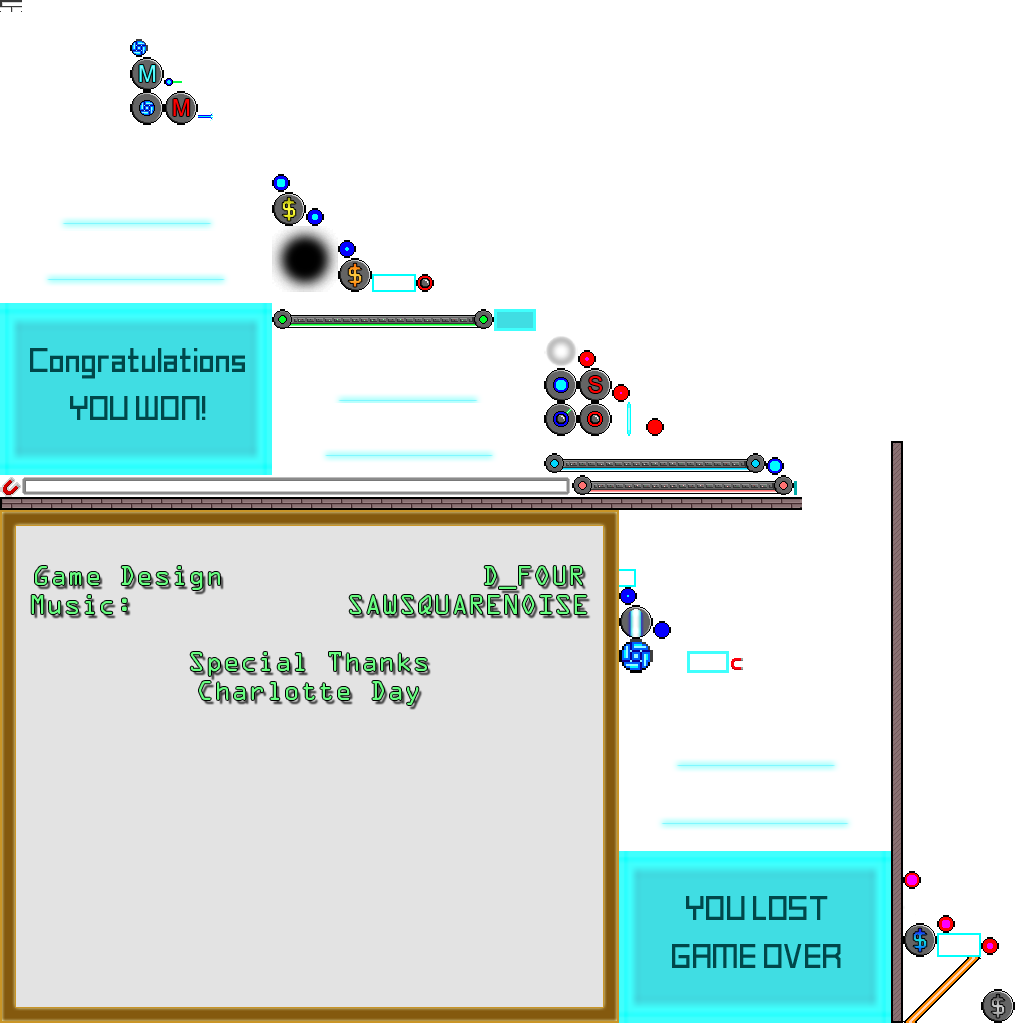
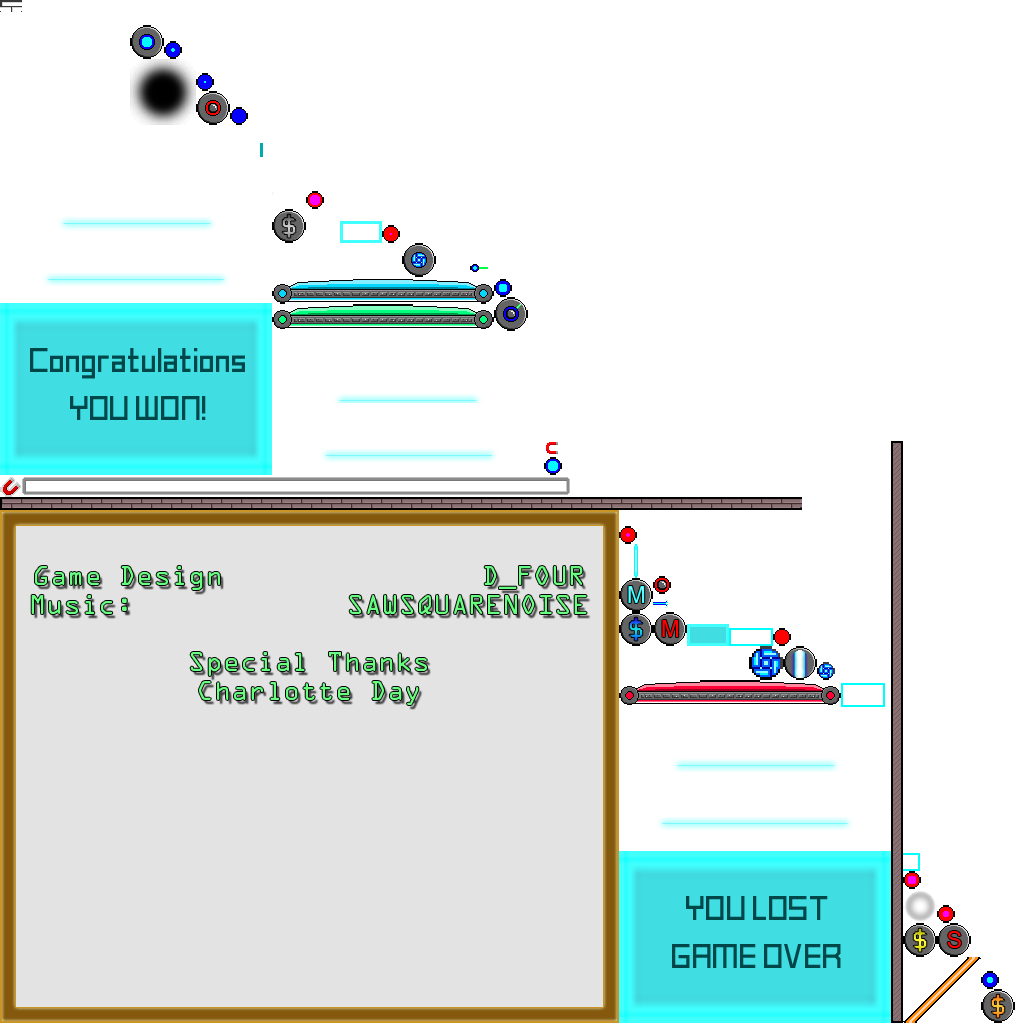
Cursor changes and code Cleanup

diff --git a/blockbreaker/core/src/com/dfour/blockbreaker/view/ApplicationScreen.java b/blockbreaker/core/src/com/dfour/blockbreaker/view/ApplicationScreen.java
@@ -6,9 +6,12 @@ import com.badlogic.gdx.Gdx;
 import com.badlogic.gdx.InputMultiplexer;
 import com.badlogic.gdx.Screen;
 import com.badlogic.gdx.graphics.Color;
+import com.badlogic.gdx.graphics.Cursor;
+import com.badlogic.gdx.graphics.Cursor.SystemCursor;
 import com.badlogic.gdx.graphics.GL20;
 import com.badlogic.gdx.graphics.OrthographicCamera;
 import com.badlogic.gdx.graphics.Pixmap;
+import com.badlogic.gdx.graphics.Pixmap.Format;
 import com.badlogic.gdx.graphics.Texture;
 import com.badlogic.gdx.graphics.g2d.BitmapFont;
 import com.badlogic.gdx.graphics.g2d.ParticleEffect;
@@ -40,7 +43,6 @@ import com.dfour.blockbreaker.BlockBreaker;
 import com.dfour.blockbreaker.IconBar;
 import com.dfour.blockbreaker.controller.AppController;
 import com.dfour.blockbreaker.entity.Ball;
-import com.dfour.blockbreaker.entity.BlackHole;
 import com.dfour.blockbreaker.entity.Bomb;
 import com.dfour.blockbreaker.entity.Brick;
 import com.dfour.blockbreaker.entity.ExplosionParticle;
@@ -105,9 +107,6 @@ public class ApplicationScreen implements Screen {
 	private Array<PooledEffect> effects = new Array<PooledEffect>();
 	
 	private Texture expParty;
-	private Texture magnetPowerBar;
-	private TextureRegion magnetPowerBarOverlay;
-	private TextureRegion bombIcon;
 	private TextureRegion leftWall;
 	private TextureRegion bottomWall;
 	
@@ -168,13 +167,15 @@ public class ApplicationScreen implements Screen {
 	private Label cashCountLabel;
 	private IconBar guideBar;
 	private Label bombCountLabel;
-	private Label magnetRechargeRateLabel;
 	private Label magnetUnitsTotal;
 	private Label laserCountLabel;
 	private Label laserGuideCountLabel;
 	private Label livesCountLabel;
 	private Table pauseMenuTable;
 	private InputMultiplexer imp;
+	
+	private Cursor inGame;
+	private SystemCursor inMenu;
 	
 	
 	public ApplicationScreen(BlockBreaker p) {
@@ -209,6 +210,9 @@ public class ApplicationScreen implements Screen {
 		displayTable.setDebug(false);
 		displayTable.setFillParent(true);
 		skin = parent.assMan.manager.get("skin/bbskin.json",Skin.class);
+		
+		inGame = Gdx.graphics.newCursor(new Pixmap(1,1,Format.RGBA8888), 1, 1);
+		inMenu = Cursor.SystemCursor.Arrow;
 		
 		NinePatchDrawable npd = new NinePatchDrawable(atlasGui.createPatch("darkblockbutton"));
 		
@@ -328,6 +332,7 @@ public class ApplicationScreen implements Screen {
 		bbModel.init();
 		isPaused = false;
 		isReturning = false;
+		Gdx.graphics.setCursor(inGame);
 	}
 	
 	@Override
@@ -356,6 +361,9 @@ public class ApplicationScreen implements Screen {
 	    	controller.isPauseDown = false;
 	    	if(isPaused){
 	    		pauseMenuTable.setVisible(true);
+	    		Gdx.graphics.setSystemCursor(inMenu);
+	    	}else{
+	    		Gdx.graphics.setCursor(inGame);
 	    	}
 	    	
 	    }
@@ -382,6 +390,7 @@ public class ApplicationScreen implements Screen {
 			fadeOut -= delta;
 			currentAlpha = fadeOut;
 			if(fadeOut <= 0){
+				Gdx.graphics.setSystemCursor(inMenu);
 				parent.changeScreen(nextScreen);
 			}
 		}else{
@@ -737,8 +746,6 @@ public class ApplicationScreen implements Screen {
 		lazerEndBg 		= atlasLazor.findRegion("lazorEnd");
 		lazerEndOver 	= atlasLazor.findRegion("lazorEndOver");
 		lazerAllOver 	= atlasLazor.findRegion("lazorAllOver");
-		magnetPowerBarOverlay = atlas.findRegion("magpowerbar");
-		bombIcon = atlas.findRegion("bomb");
 		leftWall = atlas.findRegion("leftwall");
 		bottomWall = atlas.findRegion("bottomwall");
 		
@@ -746,11 +753,6 @@ public class ApplicationScreen implements Screen {
 		pmap.setColor(1,1,1,1);
 		pmap.fillCircle(3, 3, 2);
 		expParty = new Texture(pmap);	
-		
-		pmap = new Pixmap(10,10, Pixmap.Format.RGBA4444);
-		pmap.setColor(Color.WHITE);
-		pmap.fill();
-		magnetPowerBar = new Texture(pmap);
 		pmap.dispose();
 		
 		

diff --git a/blockbreaker/core/src/com/dfour/blockbreaker/view/LevelDesignerScreen.java b/blockbreaker/core/src/com/dfour/blockbreaker/view/LevelDesignerScreen.java
@@ -1,36 +1,27 @@
 package com.dfour.blockbreaker.view;
 
 import com.badlogic.gdx.Gdx;
-import com.badlogic.gdx.Screen;
 import com.badlogic.gdx.files.FileHandle;
 import com.badlogic.gdx.graphics.Color;
-import com.badlogic.gdx.graphics.GL20;
 import com.badlogic.gdx.graphics.Pixmap;
 import com.badlogic.gdx.graphics.Pixmap.Format;
 import com.badlogic.gdx.graphics.Texture;
 import com.badlogic.gdx.graphics.g2d.Batch;
-import com.badlogic.gdx.graphics.g2d.BitmapFont;
-import com.badlogic.gdx.graphics.g2d.SpriteBatch;
 import com.badlogic.gdx.graphics.g2d.TextureAtlas;
-import com.badlogic.gdx.graphics.g2d.TextureAtlas.AtlasRegion;
 import com.badlogic.gdx.graphics.g2d.TextureRegion;
 import com.badlogic.gdx.scenes.scene2d.Actor;
 import com.badlogic.gdx.scenes.scene2d.InputEvent;
-import com.badlogic.gdx.scenes.scene2d.Stage;
 import com.badlogic.gdx.scenes.scene2d.ui.ImageButton;
 import com.badlogic.gdx.scenes.scene2d.ui.Label;
 import com.badlogic.gdx.scenes.scene2d.ui.Skin;
 import com.badlogic.gdx.scenes.scene2d.ui.Table;
 import com.badlogic.gdx.scenes.scene2d.ui.TextButton;
 import com.badlogic.gdx.scenes.scene2d.ui.ImageButton.ImageButtonStyle;
-import com.badlogic.gdx.scenes.scene2d.ui.TextButton.TextButtonStyle;
 import com.badlogic.gdx.scenes.scene2d.ui.TextField;
 import com.badlogic.gdx.scenes.scene2d.ui.TextTooltip;
 import com.badlogic.gdx.scenes.scene2d.utils.ClickListener;
-import com.badlogic.gdx.scenes.scene2d.utils.NinePatchDrawable;
 import com.badlogic.gdx.scenes.scene2d.utils.TextureRegionDrawable;
 import com.badlogic.gdx.utils.Array;
-import com.badlogic.gdx.utils.viewport.ScreenViewport;
 import com.dfour.blockbreaker.BlockBreaker;
 
 public class LevelDesignerScreen extends Scene2DScreen {

diff --git a/blockbreaker/core/src/com/dfour/blockbreaker/entity/EntityFactory.java b/blockbreaker/core/src/com/dfour/blockbreaker/entity/EntityFactory.java
@@ -45,11 +45,32 @@ public class EntityFactory {
 	
 	
 	public Pad makePad(float x, float y){
-		Body padBody = bodyFactory.makeBoxPolyBody(x, y, // location
-				10, 0.5f, // size
-				BodyFactory.RUBBER, BodyType.KinematicBody);
-		bodyFactory.addCircleFixture(padBody, -5, 0, 1f, BodyFactory.RUBBER);
-		bodyFactory.addCircleFixture(padBody, 5, 0, 1f, BodyFactory.RUBBER);
+		
+		
+		// old pad
+		//Body padBody = bodyFactory.makeBoxPolyBody(x, y, // location
+		//		10, 0.5f, // size
+		//		BodyFactory.RUBBER, BodyType.KinematicBody);
+		
+		//new pad
+		
+		Vector2[] verts = new Vector2[8];
+		verts[0] = new Vector2(-5,-0.5f); 
+		verts[1] = new Vector2(-5,0.2f);
+		verts[2] = new Vector2(-4,0.4f);
+		verts[3] = new Vector2(-2,0.6f);
+		verts[4] = new Vector2(2,0.6f);
+		verts[5] = new Vector2(4,0.4f);
+		verts[6] = new Vector2(5,0.2f);
+		verts[7] = new Vector2(5,-0.5f);
+		
+		Body padBody = bodyFactory.makePolygonShapeBody(verts, x, y,  BodyFactory.RUBBER, BodyType.KinematicBody);
+		
+		
+		
+		
+		bodyFactory.addCircleFixture(padBody, -5, 0, 0.5f, BodyFactory.RUBBER);
+		bodyFactory.addCircleFixture(padBody, 5, 0, 0.5f, BodyFactory.RUBBER);
 		pad = new Pad(padBody, atlas.createSprite("paddel"),
 				atlas.createSprite("paddel-magnet-pull"),
 				atlas.createSprite("paddel-magnet-push"), new Animation(0.05f,

diff --git a/blockbreaker/core/src/com/dfour/blockbreaker/BlockBreaker.java b/blockbreaker/core/src/com/dfour/blockbreaker/BlockBreaker.java
@@ -24,16 +24,15 @@ public class BlockBreaker extends Game {
 	//TODO create bug reporter( in game or online )
 	//TODO try make bricks that hit black hole spin into oblivion (see add animations todo)
 	//TODO add animations to entities using boolean to state image vs animation for (normal, death, black hole death)
-	//TODO try move all objects into external xml definition files
-	//TODO hide cursor when in game and show when in menus with custom cursor
+	//DONTBOTHER try move all objects into external xml definition files (and make obstacles use interfaces(one for each action: magnetise, explode etc))
+	//TODO NEEDS TESTING hide cursor when in game and show when in menus with custom cursor
 	//TODO sticky pad/ tractor beam
 	//TODO negative power ups such as drunk/slow/angled
 	//TODO add larger pad mechanic
-	//TODO add pause menu  (with buttons n stuffs for the pressings)
 	//TODO make GUI class that overlays application screen using stage
 	//TODO add continue button (saving score and cash in preferences ?? possible cheat)
 	//TODO add release ball key to prefs
-	//TODO make pad top curved for more player control
+	//TODO look into changing box2d step size to alter time
 	
 	private MenuScreen menu;
 	private PreferencesScreen prefs;

diff --git a/blockbreaker/core/src/com/dfour/blockbreaker/view/MenuScreen.java b/blockbreaker/core/src/com/dfour/blockbreaker/view/MenuScreen.java
@@ -1,22 +1,9 @@
 package com.dfour.blockbreaker.view;
 
 import com.badlogic.gdx.Gdx;
-import com.badlogic.gdx.Screen;
-import com.badlogic.gdx.graphics.GL20;
-import com.badlogic.gdx.graphics.g2d.BitmapFont;
-import com.badlogic.gdx.graphics.g2d.SpriteBatch;
-import com.badlogic.gdx.graphics.g2d.TextureAtlas;
-import com.badlogic.gdx.graphics.g2d.TextureAtlas.AtlasRegion;
 import com.badlogic.gdx.scenes.scene2d.InputEvent;
-import com.badlogic.gdx.scenes.scene2d.Stage;
-import com.badlogic.gdx.scenes.scene2d.ui.Image;
-import com.badlogic.gdx.scenes.scene2d.ui.Skin;
-import com.badlogic.gdx.scenes.scene2d.ui.Table;
 import com.badlogic.gdx.scenes.scene2d.ui.TextButton;
-import com.badlogic.gdx.scenes.scene2d.ui.TextButton.TextButtonStyle;
 import com.badlogic.gdx.scenes.scene2d.utils.ClickListener;
-import com.badlogic.gdx.scenes.scene2d.utils.NinePatchDrawable;
-import com.badlogic.gdx.utils.viewport.ScreenViewport;
 import com.dfour.blockbreaker.BlockBreaker;
 
 public class MenuScreen extends Scene2DScreen {

diff --git a/blockbreaker/core/src/com/dfour/blockbreaker/view/PreferencesScreen.java b/blockbreaker/core/src/com/dfour/blockbreaker/view/PreferencesScreen.java
@@ -1,23 +1,17 @@
 package com.dfour.blockbreaker.view;
 
 
-import com.badlogic.gdx.graphics.Color;
-import com.badlogic.gdx.graphics.Pixmap;
-import com.badlogic.gdx.graphics.Texture;
-import com.badlogic.gdx.graphics.g2d.TextureRegion;
 import com.badlogic.gdx.scenes.scene2d.Actor;
 import com.badlogic.gdx.scenes.scene2d.Event;
 import com.badlogic.gdx.scenes.scene2d.EventListener;
 import com.badlogic.gdx.scenes.scene2d.InputEvent;
 import com.badlogic.gdx.scenes.scene2d.ui.CheckBox;
 import com.badlogic.gdx.scenes.scene2d.ui.Label;
-import com.badlogic.gdx.scenes.scene2d.ui.Skin;
 import com.badlogic.gdx.scenes.scene2d.ui.Slider;
 import com.badlogic.gdx.scenes.scene2d.ui.Table;
 import com.badlogic.gdx.scenes.scene2d.ui.TextButton;
 import com.badlogic.gdx.scenes.scene2d.utils.ChangeListener;
 import com.badlogic.gdx.scenes.scene2d.utils.ClickListener;
-import com.badlogic.gdx.scenes.scene2d.utils.TextureRegionDrawable;
 import com.badlogic.gdx.utils.Align;
 import com.dfour.blockbreaker.BlockBreaker;
 /**

diff --git a/blockbreaker/core/src/com/dfour/blockbreaker/view/ControlMapScreen.java b/blockbreaker/core/src/com/dfour/blockbreaker/view/ControlMapScreen.java
@@ -6,7 +6,6 @@ import com.badlogic.gdx.scenes.scene2d.InputListener;
 import com.badlogic.gdx.scenes.scene2d.ui.Label;
 import com.badlogic.gdx.scenes.scene2d.ui.Table;
 import com.badlogic.gdx.scenes.scene2d.ui.TextButton;
-import com.badlogic.gdx.scenes.scene2d.ui.TextField;
 import com.badlogic.gdx.scenes.scene2d.utils.ClickListener;
 import com.dfour.blockbreaker.AppPreferences;
 import com.dfour.blockbreaker.BlockBreaker;

diff --git a/blockbreaker/core/src/com/dfour/blockbreaker/view/ShopScreen.java b/blockbreaker/core/src/com/dfour/blockbreaker/view/ShopScreen.java
@@ -4,7 +4,6 @@ import com.badlogic.gdx.scenes.scene2d.InputEvent;
 import com.badlogic.gdx.scenes.scene2d.ui.Label;
 import com.badlogic.gdx.scenes.scene2d.ui.TextButton;
 import com.badlogic.gdx.scenes.scene2d.utils.ClickListener;
-import com.badlogic.gdx.scenes.scene2d.utils.NinePatchDrawable;
 import com.badlogic.gdx.utils.Align;
 import com.dfour.blockbreaker.BBModel;
 import com.dfour.blockbreaker.BlockBreaker;

diff --git a/blockbreaker/core/src/com/dfour/blockbreaker/BBContactListener.java b/blockbreaker/core/src/com/dfour/blockbreaker/BBContactListener.java
@@ -8,7 +8,6 @@ import com.badlogic.gdx.physics.box2d.Fixture;
 import com.badlogic.gdx.physics.box2d.Manifold;
 import com.dfour.blockbreaker.entity.Ball;
 import com.dfour.blockbreaker.entity.Bin;
-import com.dfour.blockbreaker.entity.BlackHole;
 import com.dfour.blockbreaker.entity.Bomb;
 import com.dfour.blockbreaker.entity.Brick;
 import com.dfour.blockbreaker.entity.ExplosionParticle;

diff --git a/blockbreaker/core/src/com/dfour/blockbreaker/BBModel.java b/blockbreaker/core/src/com/dfour/blockbreaker/BBModel.java
@@ -20,7 +20,6 @@ import com.badlogic.gdx.physics.box2d.World;
 import com.badlogic.gdx.utils.Array;
 import com.dfour.blockbreaker.controller.AppController;
 import com.dfour.blockbreaker.entity.Ball;
-import com.dfour.blockbreaker.entity.BlackHole;
 import com.dfour.blockbreaker.entity.Bomb;
 import com.dfour.blockbreaker.entity.Brick;
 import com.dfour.blockbreaker.entity.EntityFactory;

diff --git a/blockbreaker/core/src/com/dfour/blockbreaker/entity/Brick.java b/blockbreaker/core/src/com/dfour/blockbreaker/entity/Brick.java
@@ -5,7 +5,6 @@ import com.badlogic.gdx.graphics.Pixmap;
 import com.badlogic.gdx.graphics.Texture;
 import com.badlogic.gdx.graphics.g2d.Sprite;
 import com.badlogic.gdx.physics.box2d.Body;
-import com.dfour.blockbreaker.BBModel;
 
 public class Brick extends Entity{
 	public boolean wasHit = false;

diff --git a/blockbreaker/core/src/com/dfour/blockbreaker/entity/Spinner.java b/blockbreaker/core/src/com/dfour/blockbreaker/entity/Spinner.java
@@ -2,7 +2,6 @@ package com.dfour.blockbreaker.entity;
 
 import com.badlogic.gdx.graphics.g2d.TextureAtlas.AtlasRegion;
 import com.badlogic.gdx.physics.box2d.Body;
-import com.dfour.blockbreaker.BBModel;
 
 public class Spinner extends Entity {
 	
